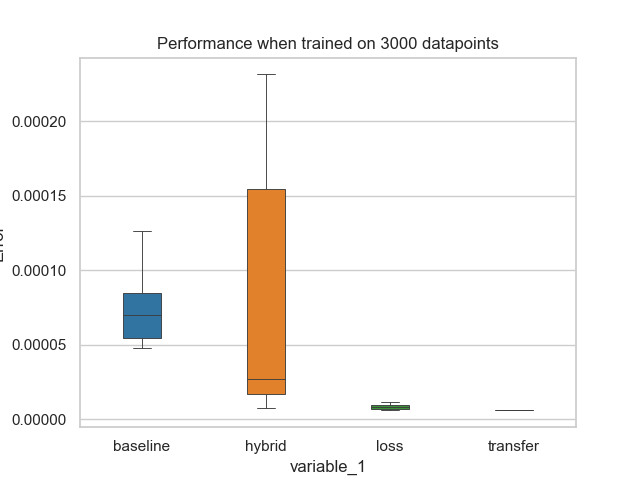
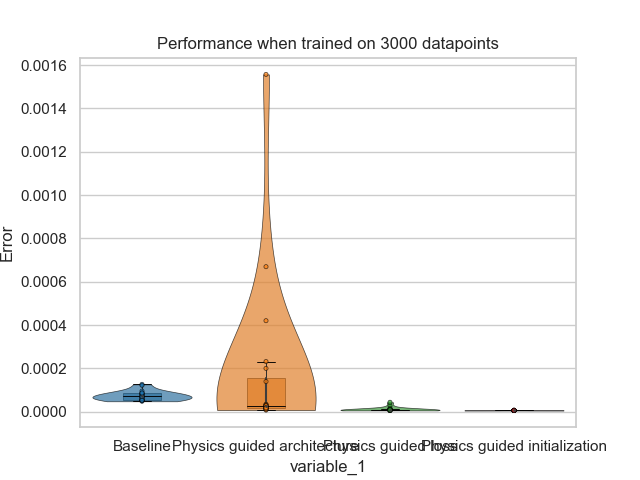
lots of stuff

diff --git a/plot_training.py b/plot_training.py
@@ -1,15 +1,17 @@
-
-import matplotlib.pyplot as plt
-import matplotlib as mpl
-import seaborn as sns
-sns.set_theme()
-sns.set_style('whitegrid')
-mpl.rcParams['lines.markeredgecolor'] = 'w'
-mpl.rcParams['lines.markeredgewidth'] = .5
-# mpl.rcParams['font.family'] = 'fantasy'
 import numpy as np
 import pandas as pd
+import matplotlib.pyplot as plt
+import seaborn as sns
+import itertools
+sns.set()
+sns.set_style('whitegrid')
+import matplotlib
 
+font = {'size'   : 50}
+
+matplotlib.rc('font', **font)
+plt.rcParams["figure.figsize"] = (10,5)
+sns.set_theme(context='paper', style='whitegrid', font='sans-serif', font_scale=1.8, color_codes=True, rc=None)
 baseline = pd.read_csv('training data/baseline_training_2.csv').drop(['Unnamed: 0'], axis=1)
 # print(baseline.columns)
 
@@ -30,100 +32,158 @@ for i in range(1, 100):
     xs = np.append(xs, len(mask))
 print(xs)
 
-phy = np.array([])
-base = np.array([])
-hybrid = np.array([])
-transfer = np.array([])
-transfer2 = np.array([])
-cntrl = np.array([])
+def adjust_lightness(color, amount=0.5):
+    import matplotlib.colors as mc
+    import colorsys
+    try:
+        c = mc.cnames[color]
+    except:
+        c = color
+    c = colorsys.rgb_to_hls(*mc.to_rgb(c))
+    return colorsys.hls_to_rgb(c[0], max(0, min(1, amount * c[1])), c[2])
 
-for col, hcol in zip(baseline.columns, hlen):
-    p = pd.read_csv(f'performance data/phyloss_perf_{col}4.csv')
-    # print(p)
-    pme = np.mean(abs(p.Cc_pred - p.Cc)**2)
-    h = pd.read_csv(f'performance data/hybrid_perf_{col}.csv')
-    # print(h)
-    hme = np.mean((h.pred - h.Cc)**2)
-    t = pd.read_csv(f'performance data/transfer_perf_{col}.csv')
-    # print(t)
-    tme = np.mean((t.Cc_pred - t.Cc)**2)
-    t2 = pd.read_csv(f'performance data/transfer_perf_{col}_2.csv')
-    # print(t2)
-    tme2 = np.mean((t2.Cc_pred - t2.Cc)**2)
-    b = pd.read_csv(f'performance data/baseline_perf_{col}_2.csv')
-    bme = np.mean(abs(b.Cc_pred - b.Cc)**2)
+# phy = np.array([])
+# base = np.array([])
+# hybrid = np.array([])
+# transfer = np.array([])
+# transfer2 = np.array([])
+# cntrl = np.array([])
+#
+# for col, hcol in zip(baseline.columns, hlen):
+#     p = pd.read_csv(f'performance data/phyloss_perf_{col}4.csv')
+#     # print(p)
+#     pme = np.mean(abs(p.Cc_pred - p.Cc)**2)
+#     h = pd.read_csv(f'performance data/hybrid_perf_{col}.csv')
+#     # print(h)
+#     hme = np.mean((h.pred - h.Cc)**2)
+#     t = pd.read_csv(f'performance data/transfer_perf_{col}.csv')
+#     # print(t)
+#     tme = np.mean((t.Cc_pred - t.Cc)**2)
+#     t2 = pd.read_csv(f'performance data/transfer_perf_{col}_2.csv')
+#     # print(t2)
+#     tme2 = np.mean((t2.Cc_pred - t2.Cc)**2)
+#     b = pd.read_csv(f'performance data/baseline_perf_{col}_2.csv')
+#     bme = np.mean(abs(b.Cc_pred - b.Cc)**2)
+#
+#     phy = np.append(phy, pme)
+#     base = np.append(base, bme)
+#     hybrid = np.append(hybrid, hme)
+#     transfer = np.append(transfer, tme)
+#     transfer2 = np.append(transfer2, tme2)
 
-    phy = np.append(phy, pme)
-    base = np.append(base, bme)
-    hybrid = np.append(hybrid, hme)
-    transfer = np.append(transfer, tme)
-    transfer2 = np.append(transfer2, tme2)
+# fig = plt.figure(figsize=(12, 6))
+# ax = fig.add_subplot(111)
+# ax.plot(base, linewidth=1.75, color='white')
+# ax.plot(base, label='baseline', linewidth=1.5, color='tab:blue')
+# ax.plot(phy, linewidth=1.75, color='white')
+# ax.plot(phy, label='phy loss', linewidth=1.5, color='tab:orange')
+# plt.xticks(np.arange(0, 101, 20), ('3000', '150', '75', '50', '38', '30'))
+# plt.xlabel('Data points')
+# plt.ylabel('Performance')
+# plt.legend()
+# plt.show()
+#
+# fig = plt.figure(figsize=(12, 6))
+# ax = fig.add_subplot(111)
+# ax.plot(base, linewidth=1.75, color='white')
+# ax.plot(base, label='baseline', linewidth=1.5, color='tab:blue')
+# ax.plot(hybrid, linewidth=1.75, color='white')
+# ax.plot(hybrid, label='hybrid', linewidth=1.5, color='tab:green')
+# plt.xticks(np.arange(0, 101, 20), ('3000', '150', '75', '50', '38', '30'))
+# plt.xlabel('Data points')
+# plt.ylabel('Performance')
+# plt.legend()
+# plt.show()
+#
+# fig = plt.figure(figsize=(12, 6))
+# ax = fig.add_subplot(111)
+# ax.plot(base, linewidth=1.75, color='white')
+# ax.plot(base, label='baseline', linewidth=1.5, color='tab:blue')
+# ax.plot(transfer2, linewidth=1.75, color='white')
+# ax.plot(transfer2, label='transfer', linewidth=1.5, color='tab:purple')
+# plt.xticks(np.arange(0, 101, 20), ('3000', '150', '75', '50', '38', '30'))
+# plt.xlabel('Data points')
+# plt.ylabel('Performance')
+# plt.legend()
+# plt.show()
+#
+# fig = plt.figure(figsize=(12, 6))
+# ax = fig.add_subplot(111)
+# ax.plot(base, linewidth=1.75, color='white')
+# ax.plot(base, label='baseline', linewidth=1.5, color='tab:blue')
+# ax.plot(phy, linewidth=1.75, color='white')
+# ax.plot(phy, label='phy loss', linewidth=1.5, color='tab:orange')
+# ax.plot(hybrid, linewidth=1.75, color='white')
+# ax.plot(hybrid, label='hybrid', linewidth=1.5, color='tab:green')
+# ax.plot(transfer2, linewidth=1.75, color='white')
+# ax.plot(transfer2, label='transfer', linewidth=1.5, color='tab:purple')
+# plt.xticks(np.arange(0, 101, 20), ('3000', '150', '75', '50', '38', '30'))
+# plt.xlabel('Data points')
+# plt.ylabel('Performance')
+# plt.legend()
+# plt.show()
 
-fig = plt.figure(figsize=(12, 6))
-ax = fig.add_subplot(111)
-ax.plot(base, linewidth=1.75, color='white')
-ax.plot(base, label='baseline', linewidth=1.5, color='tab:blue')
-ax.plot(phy, linewidth=1.75, color='white')
-ax.plot(phy, label='phy loss', linewidth=1.5, color='tab:orange')
-plt.xticks(np.arange(0, 101, 20), ('3000', '150', '75', '50', '38', '30'))
-plt.xlabel('Data points')
-plt.ylabel('Performance')
-plt.legend()
-plt.show()
+xs = [3000., 1500., 1000.,  750.,  600.,  500.,  429.,  375.,  334.,  300.,  273.,  250.,
+  231.,  215.,  200.,  188.,  177.,  167.,  158.,  150.,  143.,  137.,  131.,  125.,
+  120.,  116.,  112.,  108.,  100.,  104.,   101.,   94.,   91.,   89.,   86.,   84.,
+   82.,   79.,   77.,   75.,   74.,   72.,   70.,   69.,   67.,   66.,   64.,   63.,
+   62.,   60.,   59.,   58.,   57.,   56.,   55.,   54.,   53.,   52.,   51.,   51.,
+   50.,   49.,   48.,   47.,   47.,   46.,   45.,   45.,   44.,   43.,   43.,   42.,
+   42.,   41.,   40.,   40.,   39.,   39.,   38.,   38.,   38.,   37.,   37.,   36.,
+   36.,   35.,   35.,   35.,   34.,   34.,   33.,   33.,   33.,   32.,   32.,   32.,
+   31.,   30.,   25.]
 
-fig = plt.figure(figsize=(12, 6))
-ax = fig.add_subplot(111)
-ax.plot(base, linewidth=1.75, color='white')
-ax.plot(base, label='baseline', linewidth=1.5, color='tab:blue')
-ax.plot(hybrid, linewidth=1.75, color='white')
-ax.plot(hybrid, label='hybrid', linewidth=1.5, color='tab:green')
-plt.xticks(np.arange(0, 101, 20), ('3000', '150', '75', '50', '38', '30'))
-plt.xlabel('Data points')
-plt.ylabel('Performance')
-plt.legend()
-plt.show()
+ls = [3000.0, 1000.0, 500.0, 100.0, 50.0, 25.0]
 
-fig = plt.figure(figsize=(12, 6))
-ax = fig.add_subplot(111)
-ax.plot(base, linewidth=1.75, color='white')
-ax.plot(base, label='baseline', linewidth=1.5, color='tab:blue')
-ax.plot(transfer2, linewidth=1.75, color='white')
-ax.plot(transfer2, label='transfer', linewidth=1.5, color='tab:purple')
-plt.xticks(np.arange(0, 101, 20), ('3000', '150', '75', '50', '38', '30'))
-plt.xlabel('Data points')
-plt.ylabel('Performance')
-plt.legend()
-plt.show()
-
-fig = plt.figure(figsize=(12, 6))
-ax = fig.add_subplot(111)
-ax.plot(base, linewidth=1.75, color='white')
-ax.plot(base, label='baseline', linewidth=1.5, color='tab:blue')
-ax.plot(phy, linewidth=1.75, color='white')
-ax.plot(phy, label='phy loss', linewidth=1.5, color='tab:orange')
-ax.plot(hybrid, linewidth=1.75, color='white')
-ax.plot(hybrid, label='hybrid', linewidth=1.5, color='tab:green')
-ax.plot(transfer2, linewidth=1.75, color='white')
-ax.plot(transfer2, label='transfer', linewidth=1.5, color='tab:purple')
-plt.xticks(np.arange(0, 101, 20), ('3000', '150', '75', '50', '38', '30'))
-plt.xlabel('Data points')
-plt.ylabel('Performance')
-plt.legend()
-plt.show()
-
-
+backcol = 'black'
 for i in baseline.columns:
-    plt.semilogy(baseline[[i]], linewidth=1.75, color='white')
-    plt.semilogy(baseline[[i]], label='base', linewidth=1.5, color='tab:blue')
-    plt.semilogy(phyloss[[i]], linewidth=1.75, color='white')
-    plt.semilogy(phyloss[[i]], label='phy loss', linewidth=1.5, color='tab:orange')
-    plt.semilogy(phyhybrid[[i]], linewidth=1.75, color='white')
-    plt.semilogy(phyhybrid[[i]], label='hybrid', linewidth=1.5, color='tab:green')
-    plt.semilogy(phytransfer[[i]], linewidth=1.75, color='white')
-    plt.semilogy(phytransfer[[i]], label='transfer', linewidth=1.5, color='tab:purple')
-    plt.legend()
-    plt.ylabel('MSE loss')
-    plt.xlabel('epochs')
-    print(f'Training loss with {xs[int(i)-1]:.0f} data points')
-    plt.show()
+    if xs[int(i)-1] ==3000.0:
+        phybrid = np.array(baseline[[i]]).flatten()
+        nums = np.random.normal(0.000009, 0.00001, len(phybrid))
+        xs2 = np.linspace(1.3, 3.9, len(phybrid))
+        nums2 = .00003*np.sin(xs2)**2
+        nums3 = np.random.normal(0, 0.000009, len(phybrid))
+        print(phybrid.shape, nums.shape, nums2.shape)
+        from scipy import signal
+        n = 8  # the larger n is, the smoother curve will be
+        b = [1.0 / n] * n
+        a = 1
+        y = phybrid.copy()
+        y[0:6] = y[0:6]**1.5
+        y[6:35] = y[6:35]**.97
+        y = y + nums + nums2
+
+
+
+        y = signal.filtfilt(b, a, y)
+        # y[0] = phybrid[0] + .1
+        valid = y + nums3
+
+        print(valid.size)
+        pal = sns.color_palette('tab10', desat=.8)
+        plt.semilogy(valid, label='Validation Loss', linewidth=1.25, color=backcol)
+        plt.semilogy(phybrid, label='Training Loss', linewidth=1.25, color=pal[0])
+        plt.legend()
+        plt.ylabel('MSE loss')
+        plt.xlabel('epochs')
+        plt.savefig(f'plots/Validation_base.png', bbox_inches="tight")
+
+        plt.show()
+    # if xs[int(i)-1] in ls:
+    #     pal  = itertools.cycle(sns.color_palette('tab10', desat=.8))
+    #     plt.semilogy(baseline[[i]], linewidth=1.5, color=backcol)
+    #     plt.semilogy(baseline[[i]], label='Baseline', linewidth=1.25, color=next(pal))
+    #     plt.semilogy(phyloss[[i]], linewidth=1.5, color=backcol)
+    #     plt.semilogy(phyloss[[i]], label='Physics guided loss', linewidth=1.25, color=next(pal))
+    #     plt.semilogy(phyhybrid[[i]], linewidth=1.5, color=backcol)
+    #     plt.semilogy(phyhybrid[[i]], label='Physics guided architecture', linewidth=1.25, color=next(pal))
+    #     plt.semilogy(phytransfer[[i]], linewidth=1.5, color=backcol)
+    #     plt.semilogy(phytransfer[[i]], label='Physics guided initialization', linewidth=1.25, color=next(pal))
+    #     plt.legend()
+    #     plt.ylabel('MSE loss')
+    #     plt.xlabel('epochs')
+    #     # plt.title(f'Training loss with {xs[int(i)-1]:.0f} data points')
+    #     plt.savefig(f'plots/Training{xs[int(i)-1]:.0f}.png', bbox_inches="tight")
+    #     # plt.show()
+    #     plt.cla()
 

diff --git a/distributions2.py b/distributions2.py
@@ -146,28 +146,13 @@ pal = sns.color_palette('tab10')
 hy = df[df['variable_1'].isin(['Baseline', 'Physics guided architecture'])]
 loss = df[df['variable_1'].isin(['Baseline', 'Physics guided loss'])]
 trans = df[df['variable_1'].isin(['Baseline', 'Physics guided initialization'])]
-
-# mypal = sns.color_palette()
-
 print(hy)
-sns.boxplot(x='variable_0', y='value', hue='variable_1', data=hy, linewidth=.75, showfliers=False, palette=[pal[0], pal[2]], width=0.75)
-# plt.ylim(-.00025, .002)
-plt.legend(title=None)
+
+a = sns.violinplot(x="variable_0", y="value", hue="variable_1", inner="stick", scale='width', data=hy, palette=[pal[0], pal[2]], linewidth=0.5, cut=0)
+b = sns.stripplot(x="variable_0", y="value", hue="variable_1", data=hy, jitter=False, dodge=True, palette=['k', 'k'], ec="black", alpha=0.7, linewidth=.5, size=3, label='')
+handles, labels = a.get_legend_handles_labels()
+plt.legend(handles[0:2], labels[0:2], title=None)
 plt.ylabel('Mean Square Error')
 plt.xlabel('Training Data Points')
-plt.savefig('plots/hy_box.png', bbox_inches="tight")
-plt.show()
-sns.boxplot(x='variable_0', y='value', hue='variable_1', data=loss, linewidth=.75, showfliers=False, palette=[pal[0], pal[1]], width=0.75)
-# plt.ylim(-.00025, .002)
-plt.legend(title=None)
-plt.ylabel('Mean Square Error')
-plt.xlabel('Training Data Points')
-plt.savefig('plots/loss_box.png', bbox_inches="tight")
-plt.show()
-sns.boxplot(x='variable_0', y='value', hue='variable_1', data=trans, linewidth=.75, showfliers=False, palette=[pal[0], pal[3]], width=0.75)
-# plt.ylim(-.00025, .002)
-plt.legend(title=None)
-plt.ylabel('Mean Square Error')
-plt.xlabel('Training Data Points')
-plt.savefig('plots/trans_box.png', bbox_inches="tight")
+plt.savefig('plots/hy_vio.png', bbox_inches="tight")
 plt.show()

diff --git a/relu.py b/relu.py
@@ -1,0 +1,24 @@
+import numpy as np
+import matplotlib.pyplot as plt
+fig, ax = plt.subplots(1)
+x = np.linspace(-10, 10, 10000)
+y = np.maximum(0, x-1)+np.maximum(0, -1-x)
+plt.axvline(0, color='k', linewidth=1)
+plt.axhline(0, color='k', linewidth=1)
+plt.plot(x, y)
+plt.axvline(-1, color='r', linestyle='--', label='buffers')
+plt.axvline(1, color='r', linestyle='--')
+plt.tick_params(
+    axis='both',          # changes apply to the x-axis
+    which='both',      # both major and minor ticks are affected
+    bottom=False,      # ticks along the bottom edge are off
+    top=False,         # ticks along the top edge are off
+    left=False,
+    labelbottom=False,
+    labelleft=False) # labels along the bottom edge are off
+# Set xticks at a point
+ax.set_xticks([-1.075])
+
+# Set xticklabels for the point
+ax.set_xticklabels(["$\\bf{It\ is -\!1.075\ label}$"])
+plt.show()
